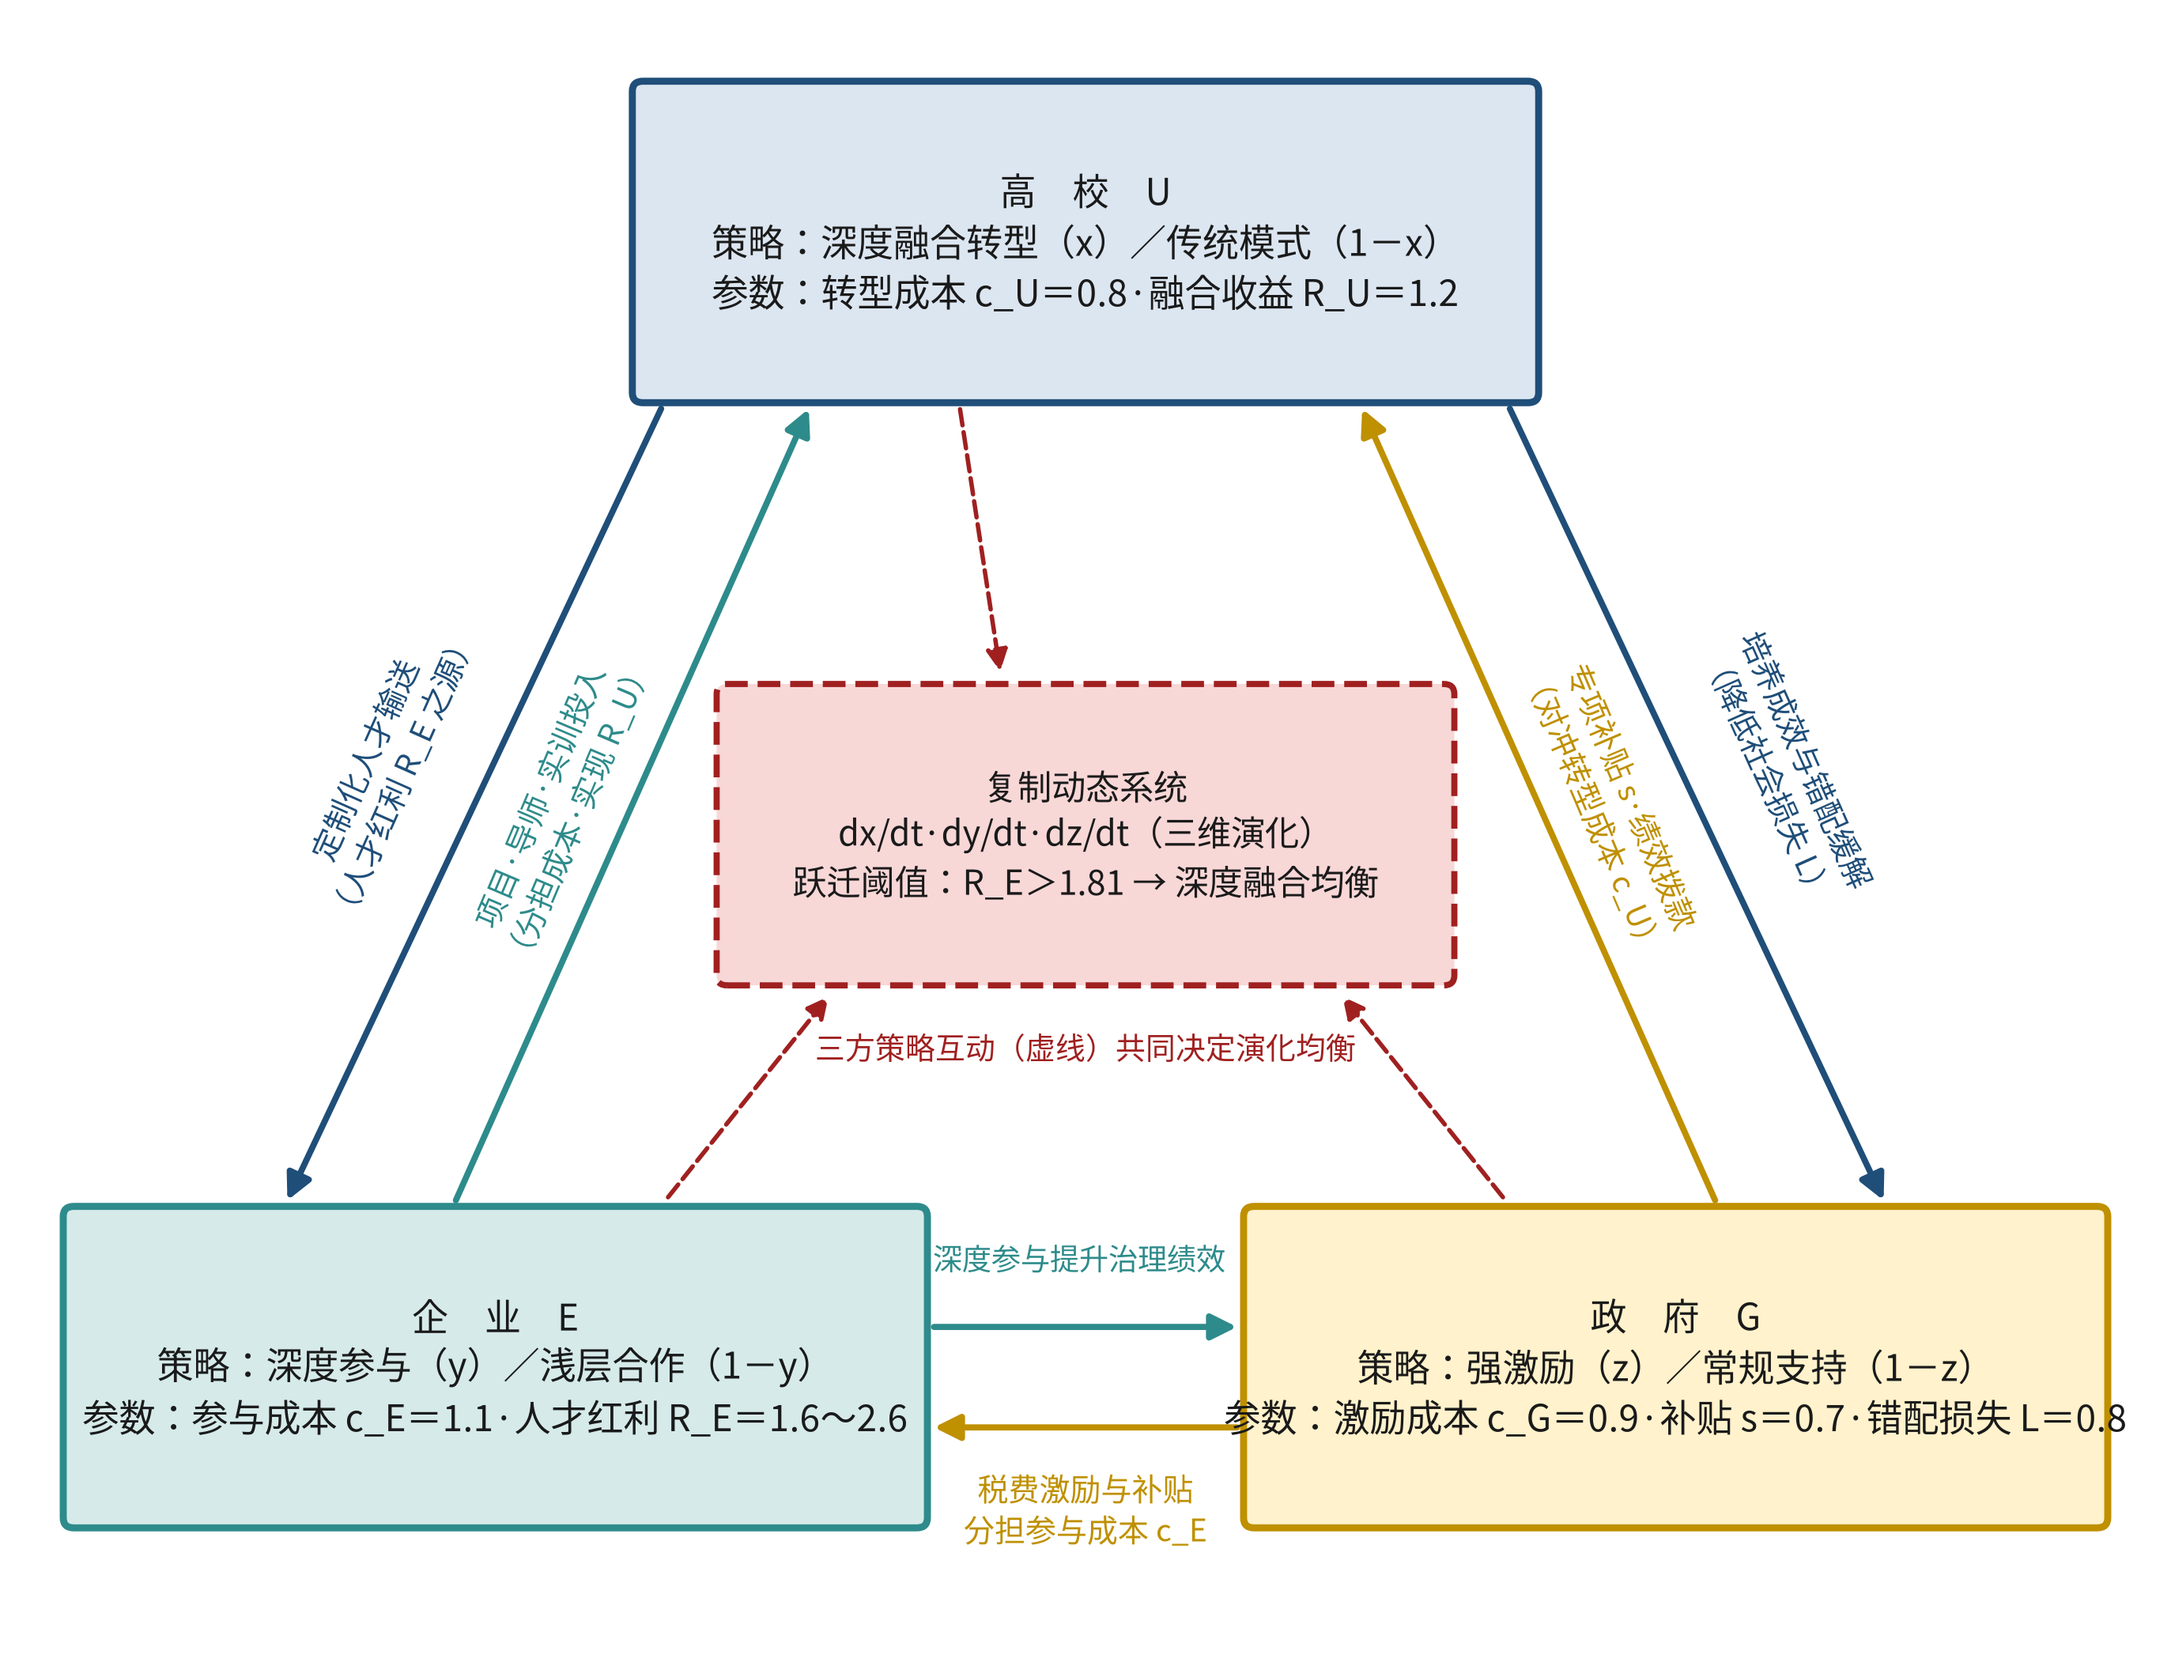
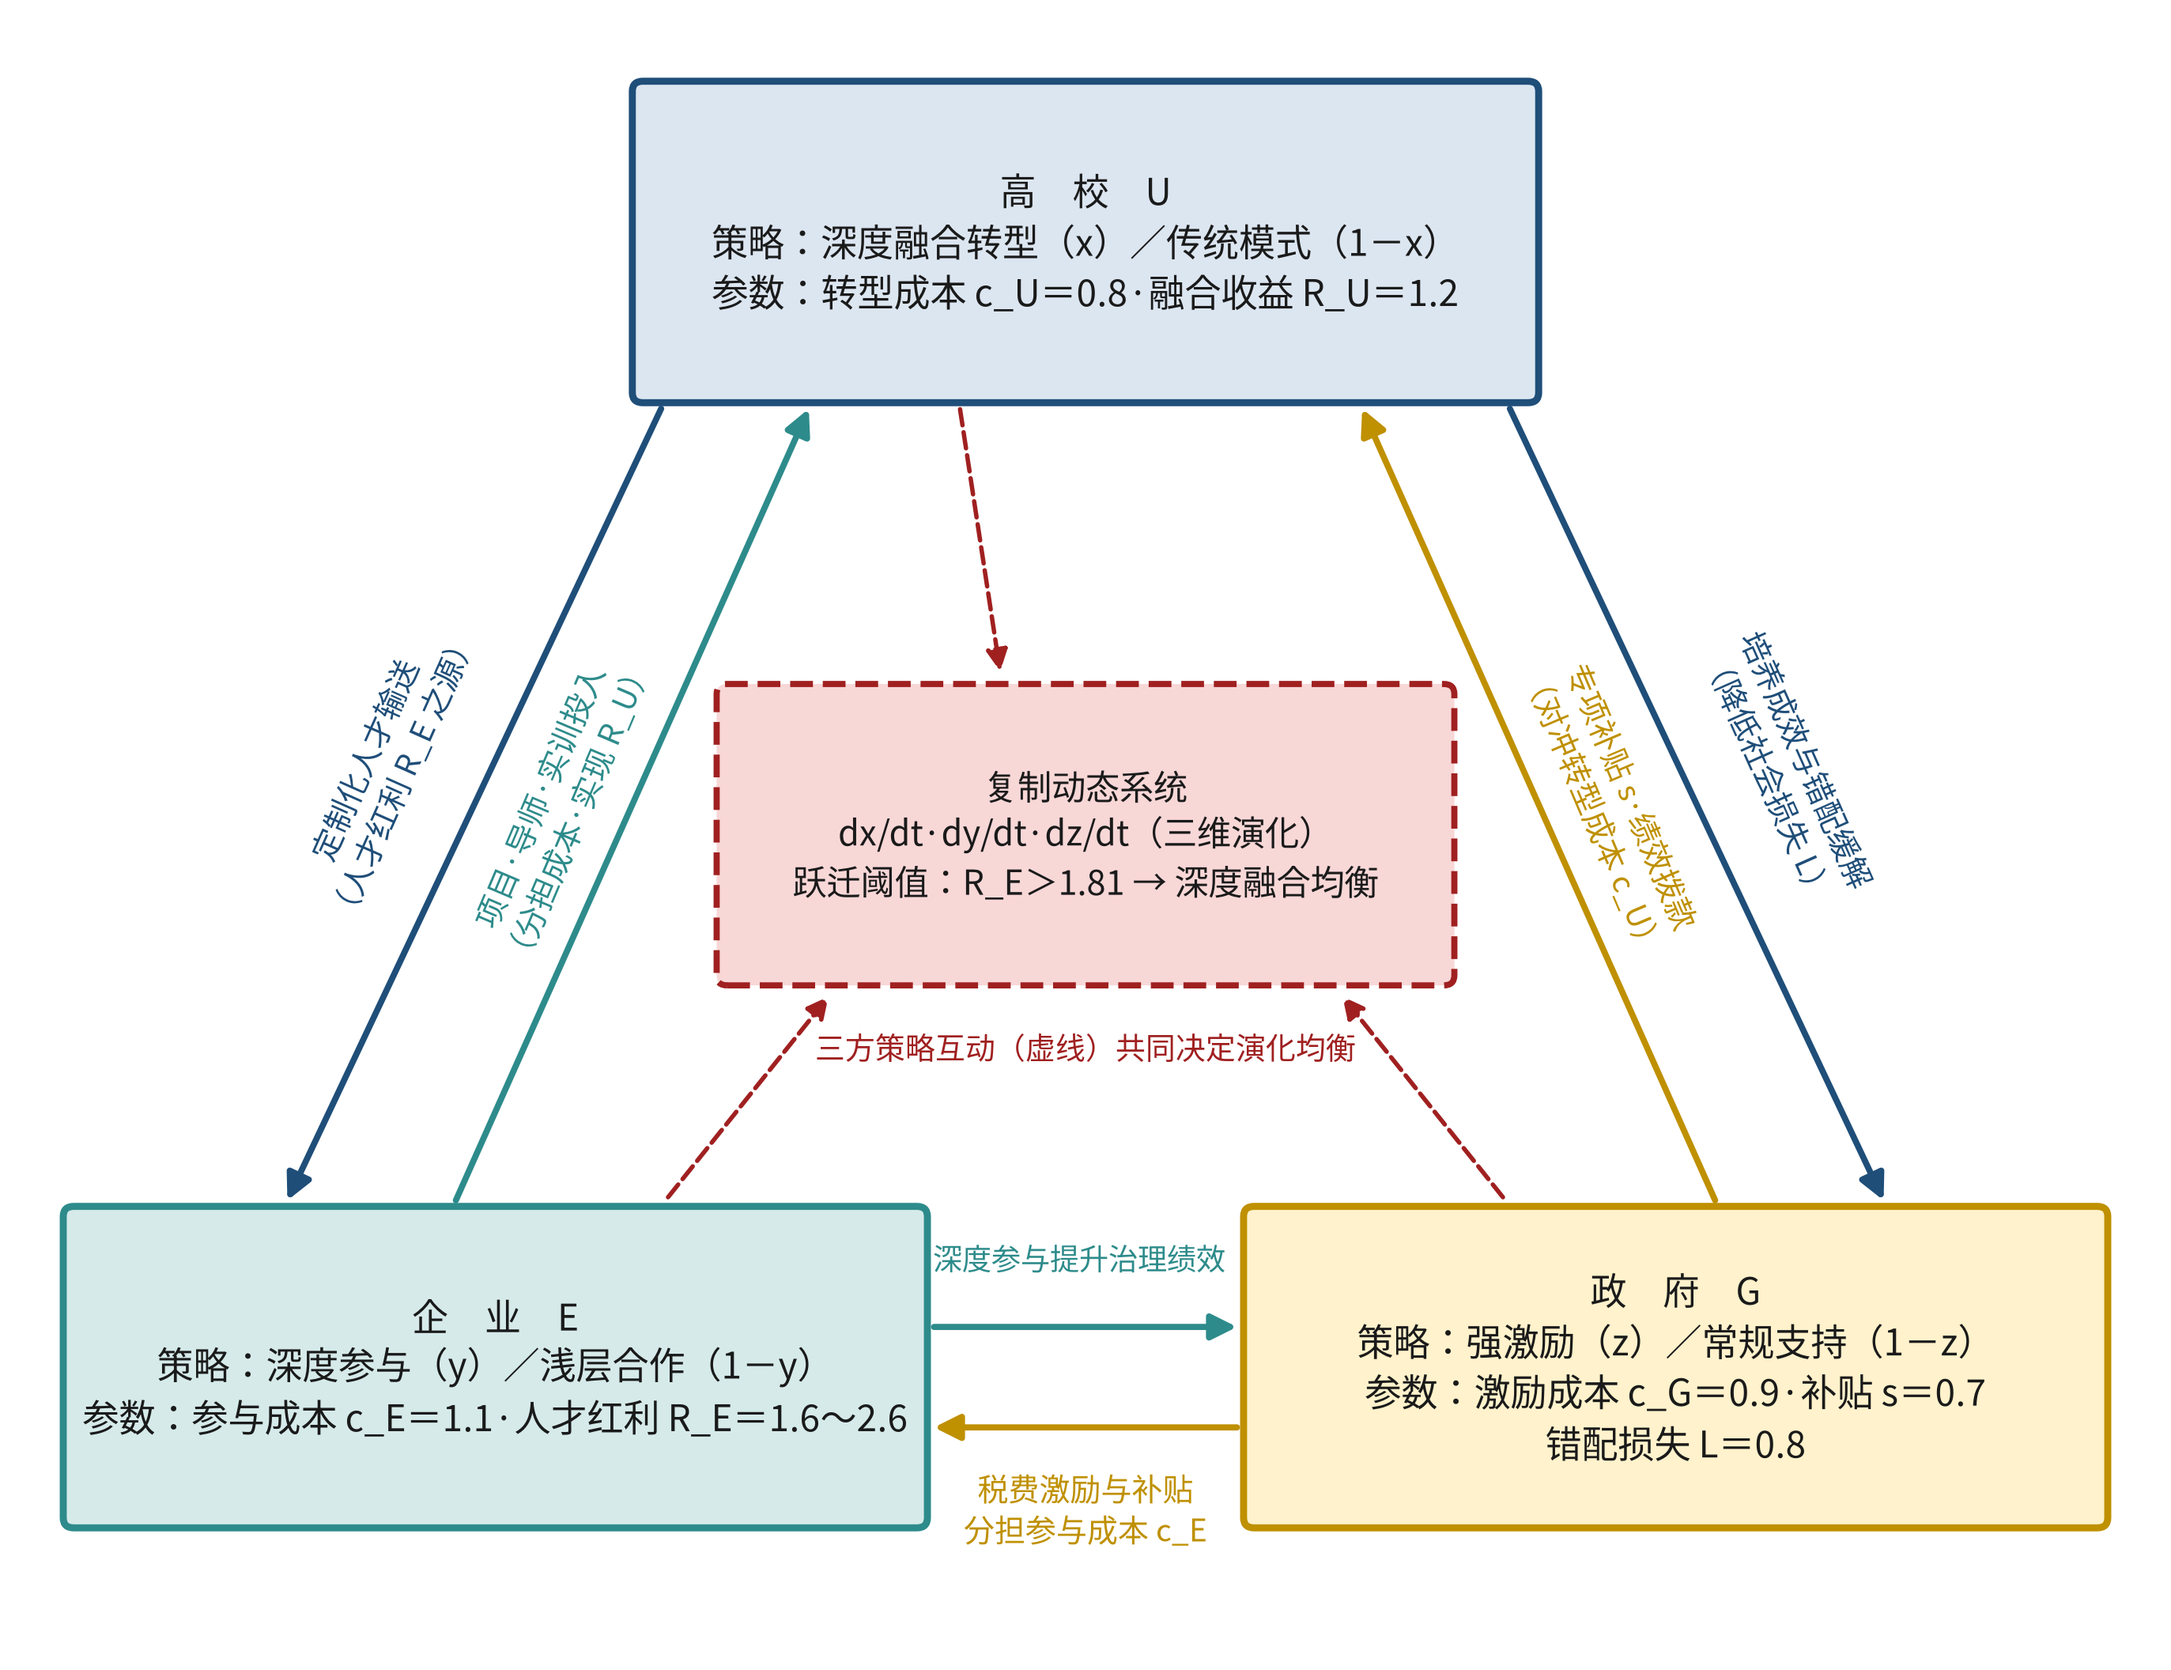
图件QA修复：fig5_1/fig9_1/fig7_3/fig9_4；45幅全部过检
Claude-Session: https://claude.ai/code/session_01QzKzGFH9nCcj4dUgUrgzSn

Changed region(s): [[0.6191, 0.75, 0.9596, 0.875], [0.5572, 0.8438, 0.5881, 0.875]]

diff --git a/ai-talent-book/figures_b.py b/ai-talent-book/figures_b.py
@@ -143,10 +143,8 @@ def fig7_3():
         body.set_edgecolor(TYPE_C[t])
         body.set_linewidth(1.1)
     for p, t in zip(pos, TYPE3):
-        q1, med, q3 = np.percentile(samples[t], [25, 50, 75])
+        q1, q3 = np.percentile(samples[t], [25, 75])
         ax2.vlines(p, q1, q3, color=TYPE_C[t], lw=4, alpha=0.9)
-        ax2.plot(p, med, 'o', color='white', ms=4, mec=TYPE_C[t], mew=1.1,
-                 zorder=5)
         ax2.plot(p, byt[t], 'D', color=PAL['red'], ms=5, zorder=6)
         ax2.annotate(f'{byt[t]:.2f}', (p + 0.16, byt[t]), va='center',
                      ha='left', fontsize=8, color=PAL['red'])
@@ -161,8 +159,8 @@ def fig7_3():
     ax2.legend(handles=[
         Line2D([], [], marker='D', color='none', mfc=PAL['red'], ms=5,
                label='SFA 类型均值'),
-        Line2D([], [], marker='o', color='none', mfc='white', mec='#404040',
-               ms=4.5, label='样本中位数')],
+        Line2D([], [], color=TYPE_C[TYPE3[0]], lw=4, alpha=0.9,
+               label='四分位距')],
         loc='lower left', fontsize=7.2)
     panel_label(ax2, '（b）', x=-0.22)
     fig.tight_layout()
@@ -408,7 +406,7 @@ def fig9_4():
     ax.set_ylabel('企业深度参与比例 y')
     ax.set_xlim(0, 61.5)
     ax.set_ylim(-0.03, 1.06)
-    ax.legend(loc='upper left', fontsize=7.5)
+    ax.legend(loc='lower right', bbox_to_anchor=(0.99, 0.07), fontsize=7.5)
     save(fig, f'{FIG}/fig9_4.png')
 
 

diff --git a/ai-talent-book/diagrams_b.py b/ai-talent-book/diagrams_b.py
@@ -129,7 +129,7 @@ def fig9_1():
        '企　业　E\n策略：深度参与（y）／浅层合作（1－y）\n参数：参与成本 c_E＝%g·人才红利 R_E＝%g～%g' % (g['cE'], g['RE_base'], g['RE_hi']),
        fc=C['ltteal'], ec=PAL['teal'], fs=8.3, lw=1.6)
     bx(ax, 58, 6, 40, 15,
-       '政　府　G\n策略：强激励（z）／常规支持（1－z）\n参数：激励成本 c_G＝%g·补贴 s＝%g·错配损失 L＝%g' % (g['cG'], g['s'], g['L']),
+       '政　府　G\n策略：强激励（z）／常规支持（1－z）\n参数：激励成本 c_G＝%g·补贴 s＝%g\n错配损失 L＝%g' % (g['cG'], g['s'], g['L']),
        fc=C['ltgold'], ec=PAL['gold'], fs=8.3, lw=1.6)
     # U—E（左侧两条平行直线）
     arr(ax, (30, 61.5), (12, 21.5), c=PAL['blue'], lw=1.4)
